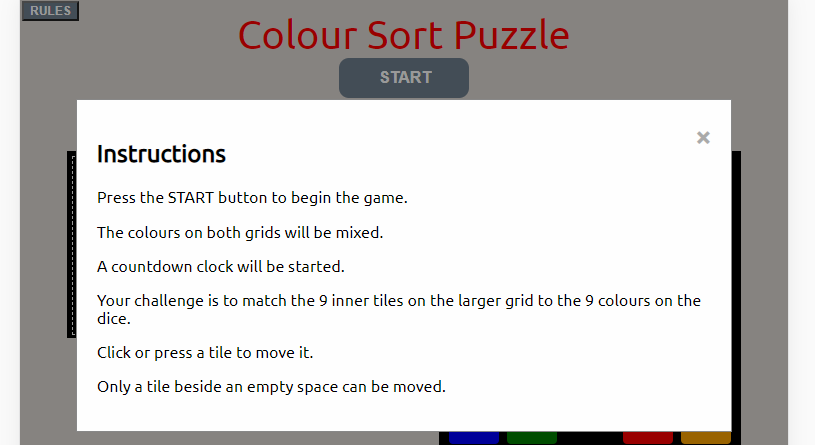
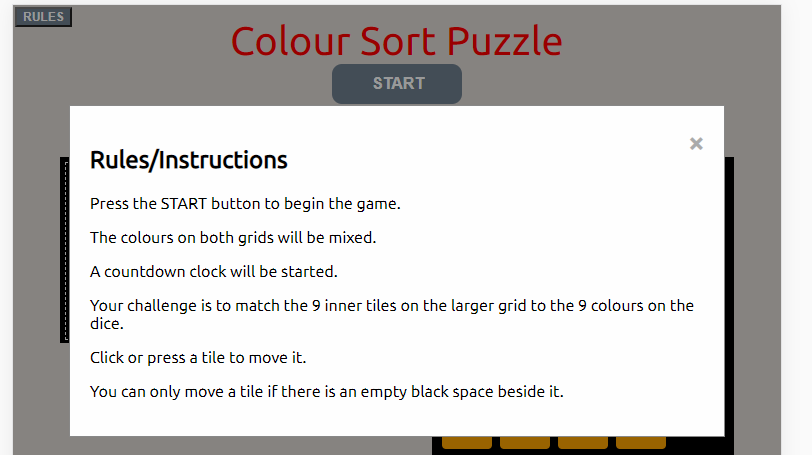
Re-position rules button, after testing some players didnt see the rules button

Changed region(s): [[0.0616, 0.2337, 0.9236, 1.0], [0.0, 0.0, 0.9852, 1.0]]

diff --git a/assets/css/style.css b/assets/css/style.css
@@ -37,24 +37,29 @@ body {
     modal window with the instructions of the game
 */
 
-#btn-instruction {
+/* #btn-instruction {
     margin-top: 2px;
     margin-left: 2px;
     margin-bottom: 20px;
     text-transform :uppercase;
     position: absolute;
     top: 0px;
-    left: 0px;
+    left: 0px; 
     background-color: slategrey;
-    font-size: 0.75rem;
+    font-size: 1rem;
     font-weight: bolder;
     color : white;
 }
+*/
 
 /* The container for the START button & START button
 */
 
-#btn-container {
+.btn-area {
+    position : relative;
+}
+
+.btn-container {
     height: 40px;
     width: 130px;
     margin-bottom: 15px;
@@ -62,6 +67,18 @@ body {
     position: relative; 
     background-color: slategrey;
     text-align: center;
+}
+
+#btn-instruction {
+    margin-top: 10px;
+    margin-left: 2px;
+    position: relative;
+    text-transform :uppercase;
+    border: 1px transparent;
+    background-color: slategrey;
+    font-size: 1rem;
+    font-weight: bolder;
+    color : white;
 }
  
 #btn-start {
@@ -237,22 +254,34 @@ body {
         font-size: 1.5rem;
     }
 
-    #btn-instruction {
+    /*#btn-instruction {
         margin-bottom: 10px;
     }
-
-    #btn-container {
+    */
+    .btn-container {
         height: 30px;
+        width: 100px;
         border-radius: 10px;
-        margin-right: 0px;
+    }
+     
+    #btn-instruction {
+        margin-top: 7px;
+        font-size : 0.75rem;
+
     }
 
     #btn-start {
+        margin-top: 7px;
+        font-size : 0.75rem;
+
+    }
+   /* #btn-start {
         margin-top: 5px;
         margin-left: 2px;
         border: 1px transparent;
         font-size: 1rem;
     }
+    */
 
     .progress-area {
         font-size : 100%;
@@ -267,6 +296,7 @@ body {
 /*  Media Queries for a larger screen  */
 
 @media screen and (min-width: 1200px){
+    
     #grid-area {
         margin-top: 40px;
     }

diff --git a/index.html b/index.html
@@ -25,13 +25,23 @@
         <div class="empty-row"></div>
 
 <!-- The Rules/Instruction button is a Modal Window which will only display if the user clicks on the button -->
-        <div >
+        
+
+        <div class="btn-container">
+
+           <button id="btn-start" onclick="startGame()">Start</button>
+
+        </div>
+
+        <span>&nbsp;&nbsp;&nbsp;&nbsp;&nbsp;&nbsp;&nbsp;&nbsp;&nbsp;&nbsp;</span>
+
+        <div class="btn-container">
             <button id="btn-instruction">Rules</button>
             <!-- The Modal -->
             <div id="instructionWindow" class="modal">
 
-                <!-- Modal content -->
-                <div class="modal-content">
+              <!-- Modal content -->
+              <div class="modal-content">
                 <span id="closeInstructions" class="close">&times;</span>
                 <h2>Rules/Instructions</h2>
                 <p>Press the START button to begin the game.</p>
@@ -40,17 +50,18 @@
                 <p>Your challenge is to match the 9 inner tiles on the larger grid to the 9 colours on the dice.</p>
                 <p>Click or press a tile to move it.</p>
                 <p>You can only move a tile if there is an empty black space beside it.</p>
-                </div>
-            
+              </div>
             </div>
         </div>
+        
 
 <!-- This is the START button, once clicked the funtion startGame will run in javascript-->
-        <div id="btn-container">
+<!--        <div id="btn-container">
 
             <button id="btn-start" onclick="startGame()">Start</button>
 
-        </div>
+        </div> -->
+
         <div class="empty-row"></div>
 
 <!-- The progress area will display to the user the amount of tile colours that are matched.
